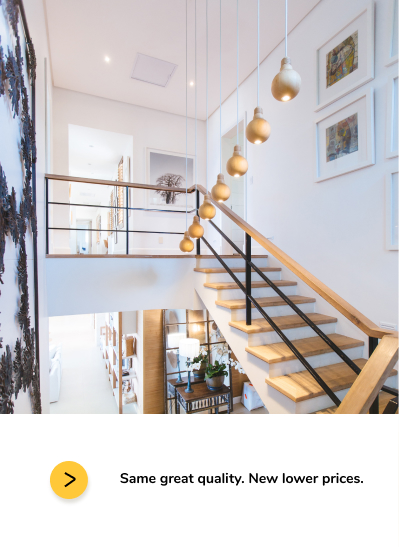
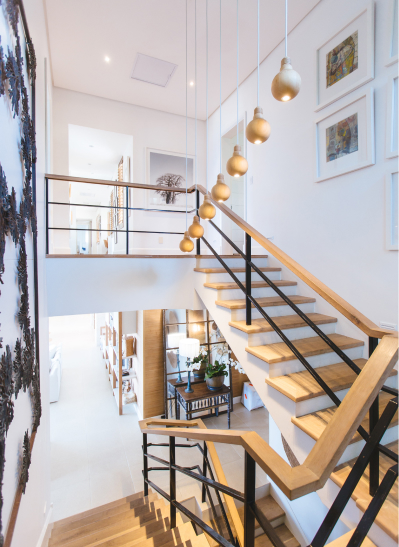
Control Work #2 04

Changed region(s): [[0.0, 0.7459, 1.0, 1.0]]

diff --git a/Month_2/ControlWork#2/index.html b/Month_2/ControlWork#2/index.html
@@ -53,5 +53,42 @@
         </div>
       </div>
     </div>
+
+    <section class="cards">
+        <div class="container">
+
+            <div class="cards_list">
+                <div class="card">
+                    <div class="card_img">
+                        <img src="img/cards/card_1.jpg" alt="Card Picture" />
+                    </div>
+                    <div class="card_footer">
+                        <div class="card_footer_icon"><a href="#" class="card_footer_link"><img src="icons/cards/component.svg" alt=""></a></div>
+                        <p class="card_text">Same great quality. New lower prices.</p>
+                    </div>
+                </div>
+
+                <div class="card">
+                    <div class="card_img">
+                        <img src="img/cards/card_1.jpg" alt="Card Picture" />
+                    </div>
+                    <div class="card_footer">
+                        <div class="card_footer_icon"><a href="#" class="card_footer_link"><img src="icons/cards/component.svg" alt=""></a></div>
+                        <p class="card_text">Everyday Essentials, High quality affordable</p>
+                    </div>
+                </div>
+
+                <div class="card">
+                    <div class="card_img">
+                        <img src="img/cards/card_1.jpg" alt="Card Picture" />
+                    </div>
+                    <div class="card_footer">
+                        <div class="card_footer_icon"><a href="#" class="card_footer_link"><img src="icons/cards/component.svg" alt=""></a></div>
+                        <p class="card_text">Join the makeover journey</p>
+                    </div>
+                </div>
+            </div>
+        </div>
+    </section>
   </body>
 </html>

diff --git a/Month_2/ControlWork#2/css/main.css b/Month_2/ControlWork#2/css/main.css
@@ -69,7 +69,8 @@ img {
 .container {
   max-width: 1240px;
   margin: 0 auto;
-  background: #eee;
+  background: #cbc6c6;
+  position: relative;
 }
 
 @media screen and (max-width: 1300px) {
@@ -120,6 +121,9 @@ img {
 }
 
 .promo_content {
+  position: absolute;
+  top: 283px;
+  left: 0;
   font-family: 'Nunito', sans-serif;
 }
 
@@ -127,6 +131,7 @@ img {
   font-size: 60px;
   font-weight: 700;
   line-height: 1.4;
+  margin-bottom: 30px;
 }
 
 .promo_subtitle {
@@ -136,7 +141,7 @@ img {
 }
 
 .logo_wrapper {
-  width: 160px;
+  width: 110px;
   height: 24px;
   margin-right: 385px;
 }
@@ -176,4 +181,57 @@ img {
   display: flex;
   gap: 42px;
   font-size: 18px;
+}
+
+.cards_list {
+  display: -webkit-box;
+  display: -ms-flexbox;
+  display: flex;
+  -ms-flex-wrap: wrap;
+      flex-wrap: wrap;
+  gap: 20px;
+  max-width: 1250px;
+}
+
+.card {
+  width: 399px;
+  height: 547px;
+  background: yellow;
+  color: #fff;
+  overflow: hidden;
+  -webkit-box-shadow: 0px 4px 59px -14px rgba(171, 124, 0, 0.29);
+          box-shadow: 0px 4px 59px -14px rgba(171, 124, 0, 0.29);
+}
+
+.card_img {
+  height: 414px;
+  overflow: hidden;
+}
+
+.card_footer {
+  height: 133px;
+  background: #fff;
+  display: -webkit-box;
+  display: -ms-flexbox;
+  display: flex;
+  -webkit-box-align: center;
+      -ms-flex-align: center;
+          align-items: center;
+  position: relative;
+}
+
+.card_footer_icon {
+  position: absolute;
+  top: 47px;
+  left: 50px;
+}
+
+.card_text {
+  font-family: 'Nunito', sans-serif;
+  font-weight: 700;
+  font-size: 14px;
+  color: #000;
+  margin-left: 120px;
+  width: 282px;
+  line-height: 1.5;
 }

diff --git a/Month_2/ControlWork#2/sass/_cards.sass b/Month_2/ControlWork#2/sass/_cards.sass
@@ -1,0 +1,41 @@
+.cards
+    &_list  
+        display: flex
+        flex-wrap: wrap
+        gap: 20px
+        max-width: 1250px
+
+
+.card
+    width: 399px
+    height: 547px
+    background: yellow
+    color: $clr-white
+    overflow: hidden
+    box-shadow: 0px 4px 59px -14px rgba(171, 124, 0, 0.29)
+
+    &_img
+        height: 414px
+        overflow: hidden
+
+    &_footer     
+        height: 133px
+        background: $clr-white
+        display: flex
+        align-items: center
+        position: relative
+
+        &_icon
+            position: absolute
+            top: 47px
+            left: 50px
+
+        
+    &_text
+        font-family: 'Nunito', sans-serif
+        font-weight: 700
+        font-size: 14px
+        color: $clr-black
+        margin-left: 120px
+        width: 282px
+        line-height: 1.5

diff --git a/Month_2/ControlWork#2/sass/_promo.sass b/Month_2/ControlWork#2/sass/_promo.sass
@@ -4,12 +4,16 @@
     color: $clr-white
 
     &_content
+        position: absolute
+        top: 283px
+        left: 0
         font-family: 'Nunito', sans-serif
 
     &_title
         font-size: 60px
         font-weight: 700
         line-height: 1.4
+        margin-bottom: 30px
     &_subtitle
         font-size: 29px
         font-weight: 400

diff --git a/Month_2/ControlWork#2/sass/_base.sass b/Month_2/ControlWork#2/sass/_base.sass
@@ -20,7 +20,8 @@ img
 .container
     max-width: 1240px
     margin: 0 auto
-    background: #eee
+    background: #cbc6c6
+    position: relative
 
     @include xl
         max-width: 1300px

diff --git a/Month_2/ControlWork#2/sass/_navbar.sass b/Month_2/ControlWork#2/sass/_navbar.sass
@@ -1,6 +1,6 @@
 .logo
     &_wrapper
-        width: 160px
+        width: 110px
         height: 24px
         margin-right: 385px
         

diff --git a/Month_2/ControlWork#2/sass/main.sass b/Month_2/ControlWork#2/sass/main.sass
@@ -6,4 +6,6 @@
 @import promo
 @import navbar
 @import menu
+@import cards
+
 
